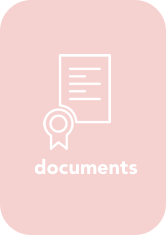
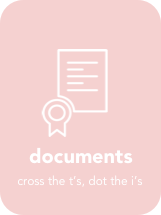
Log in screen with background and white box, expore page with subtitles

diff --git a/CSS/style.css b/CSS/style.css
@@ -3,11 +3,53 @@ html {
   overflow: hidden;
 }
 
-body {
+h2 {
+  font-family: sans-serif;
+  color: #483D9B;
+  margin-left: 22px;
+}
+
+h3 {
+  font-family: sans-serif;
+  font-size: 15pt;
+  color: #483D9B;
+  margin-left: 22px;
+}
+
+ul {
+  margin: 0;
+}
+
+section li {
+  height: 235px;
+  width: 166px;
+  margin: 0px;
+  padding: 0;
+  display:inline;
+  border-radius: 50px;
+  line-height: 20px;
+  white-space: nowrap;
+}
+
+a {
+  font-size: 20px;
+  font-family: sans-serif;
+  color: white;
+  text-decoration: none;
+}
+
+nav {
+  display: inline-block;
+  width: 375px;
+  position: fixed;
+  bottom: 0;
+  background-color: white;
+}
+
+#explorebody {
   width: 375px;
   margin-left: auto;
   margin-right: auto;
-  background-color: white;
   margin-top: 0;
   margin-bottom: 0;
   margin: 0 auto 0 auto;
@@ -15,11 +57,6 @@ body {
   overflow: auto;
 }
 
-h2 {
-  font-family: sans-serif;
-  color: #483D9B;
-  margin-left: 22px;
-}
 
 #explore {
   margin-top: 20px;
@@ -46,37 +83,25 @@ h2 {
 
 }
 
-ul {
-  margin: 0;
+#loginbody {
+  width: 375px;
+  margin-left: auto;
+  margin-right: auto;
+  background-image: url("https://i.imgur.com/RU2ZrOb.png");
+  margin-top: 0;
+  margin-bottom: 0;
+  margin: 0 auto 0 auto;
+  height: 829px;
+  overflow: auto;
 }
 
+.whitebox {
+  width: 319px;
+  height: 362px;
+  background: white;
+  border-radius: 25px;
+  margin: 250px 28px 128px 28px;
+}
 .exp {
   margin-left: 0;
-}
-section li {
-
-
-  height: 235px;
-  width: 166px;
-  margin: 0px;
-  padding: 0;
-  display:inline;
-  border-radius: 50px;
-  line-height: 20px;
-  white-space: nowrap;
-}
-
-a {
-  font-size: 20px;
-  font-family: sans-serif;
-  color: white;
-  text-decoration: none;
-}
-
-nav {
-  display: inline-block;
-  width: 375px;
-  position: fixed;
-  bottom: 0;
-  background-color: white;
 }

diff --git a/index.html b/index.html
@@ -5,10 +5,11 @@
     <title>Explore</title>
     <link rel="stylesheet" href="css/style.css">
   </head>
-  <body>
+  <body id="explorebody">
 
     <header>
       <h2 id="explore">Explore</h2>
+      <h3>Frist things first</h3>
 
     </header>
 
@@ -23,6 +24,7 @@
 
 
       <h2 id="enjoy">Enjoy</h2>
+      <h3>Experience the city</h3>
 
         <ul>
           <li class="enj" class="pink"><a href="#"><img src="images/bars.png" alt="restaurant and bars button with photo of food" style="width:166px; height: 235px;"></a></li>
@@ -38,7 +40,7 @@
 
     <nav>
       <a id="searchbutton" href="#"><img src="images/search.png" alt="search button" style="width:22px;height:26px;"</a>
-<a id="explorebutton" href="#"> <img src="images/nav button.png" alt="explore button" style="width:60px;height:60px;"</a>
+<a id="explorebutton" href="#"> <img src="images/nav button.png" alt="explore button" style="width:70px;height:70px;"</a>
       <a id="profilebutton" href="#"> <img src="images/profileinactive.png" alt="profile button" style="width:22px;height:26px;"</a>
     </nav>
   </body>

diff --git a/login.html b/login.html
@@ -1,0 +1,25 @@
+<!DOCTYPE html>
+<html lang="en" dir="ltr">
+  <head>
+    <meta charset="utf-8">
+    <title>Log In</title>
+    <link rel="stylesheet" href="css/style.css">
+  </head>
+  <body id="loginbody">
+
+    <header>
+
+    </header>
+
+    <section>
+      <div class="whitebox">
+
+      </div>
+    </section>
+
+    <nav>
+    
+    </nav>
+
+  </body>
+</html>
